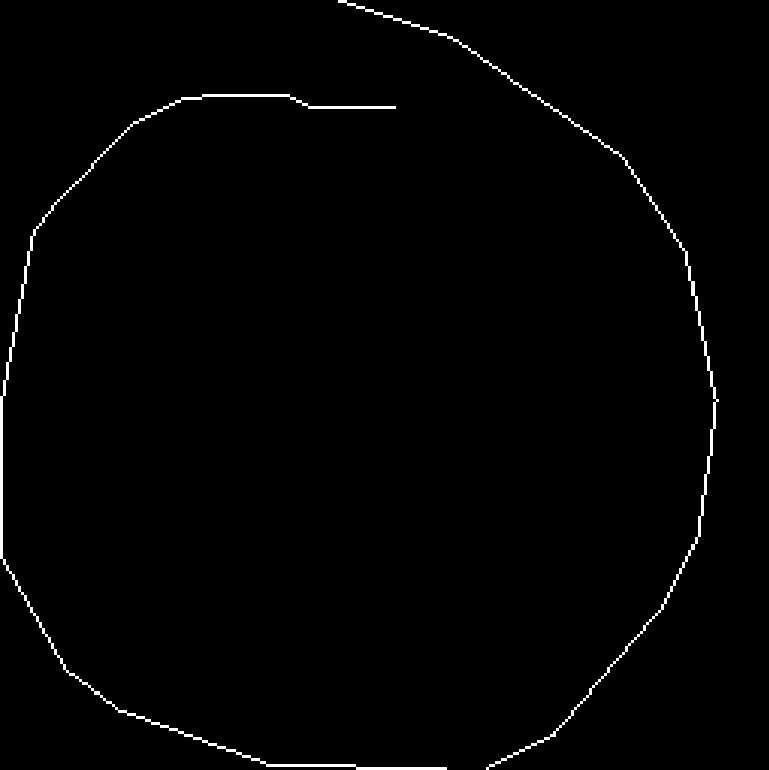
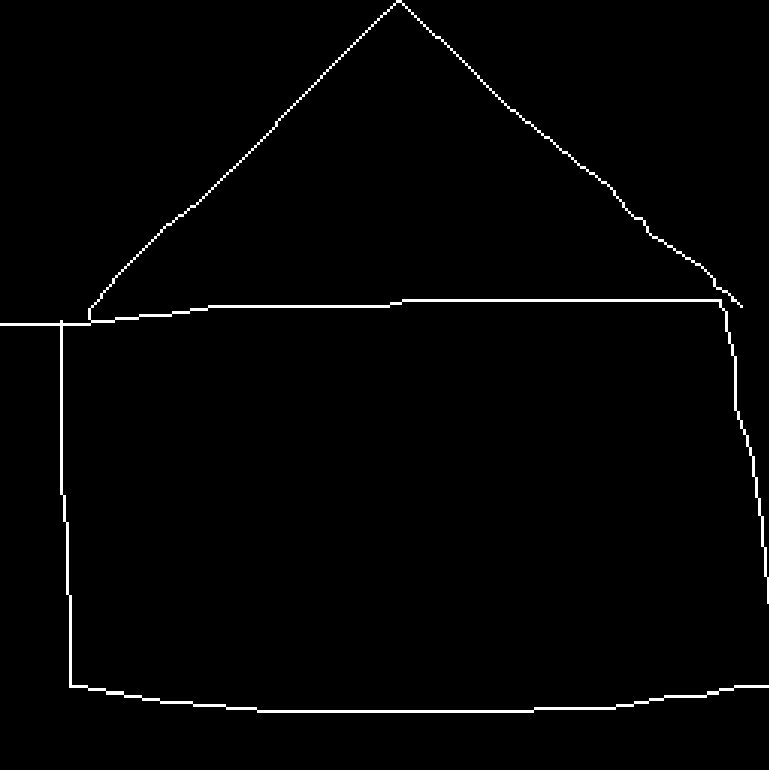
corrected typo

diff --git a/front/src/components/Game.jsx b/front/src/components/Game.jsx
@@ -13,14 +13,10 @@ export default function Game() {
         const rect = canvas.getBoundingClientRect();
         const x = event.clientX - rect.left;
         const y = event.clientY - rect.top;
-<<<<<<< front/src/components/Game.jsx
         const pen = 0;
         ctx.lineJoin = 'round';
         ctx.lineCap = 'round';
-=======
-        ctx.lineJoin = 'round';
-        ctx.lineCap = 'round';
->>>>>>> front/src/components/Game.jsx
+
         ctx.lineWidth = brushSize;
         ctx.strokeStyle = brushState === 'pen' ? 'black' : 'white';
         ctx.beginPath();
